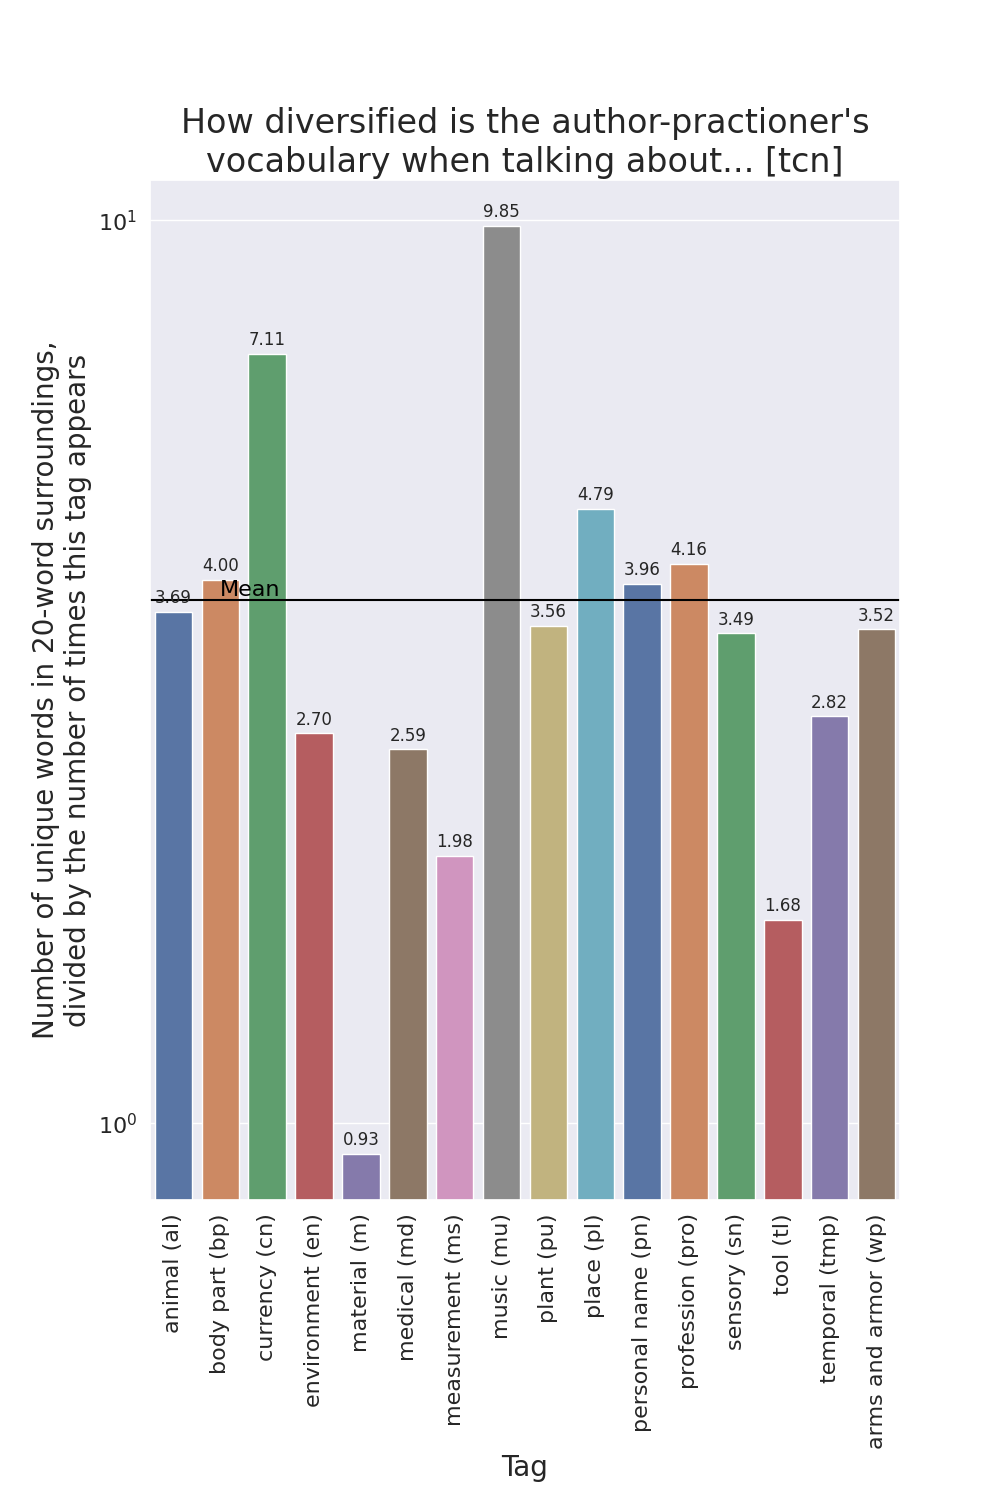
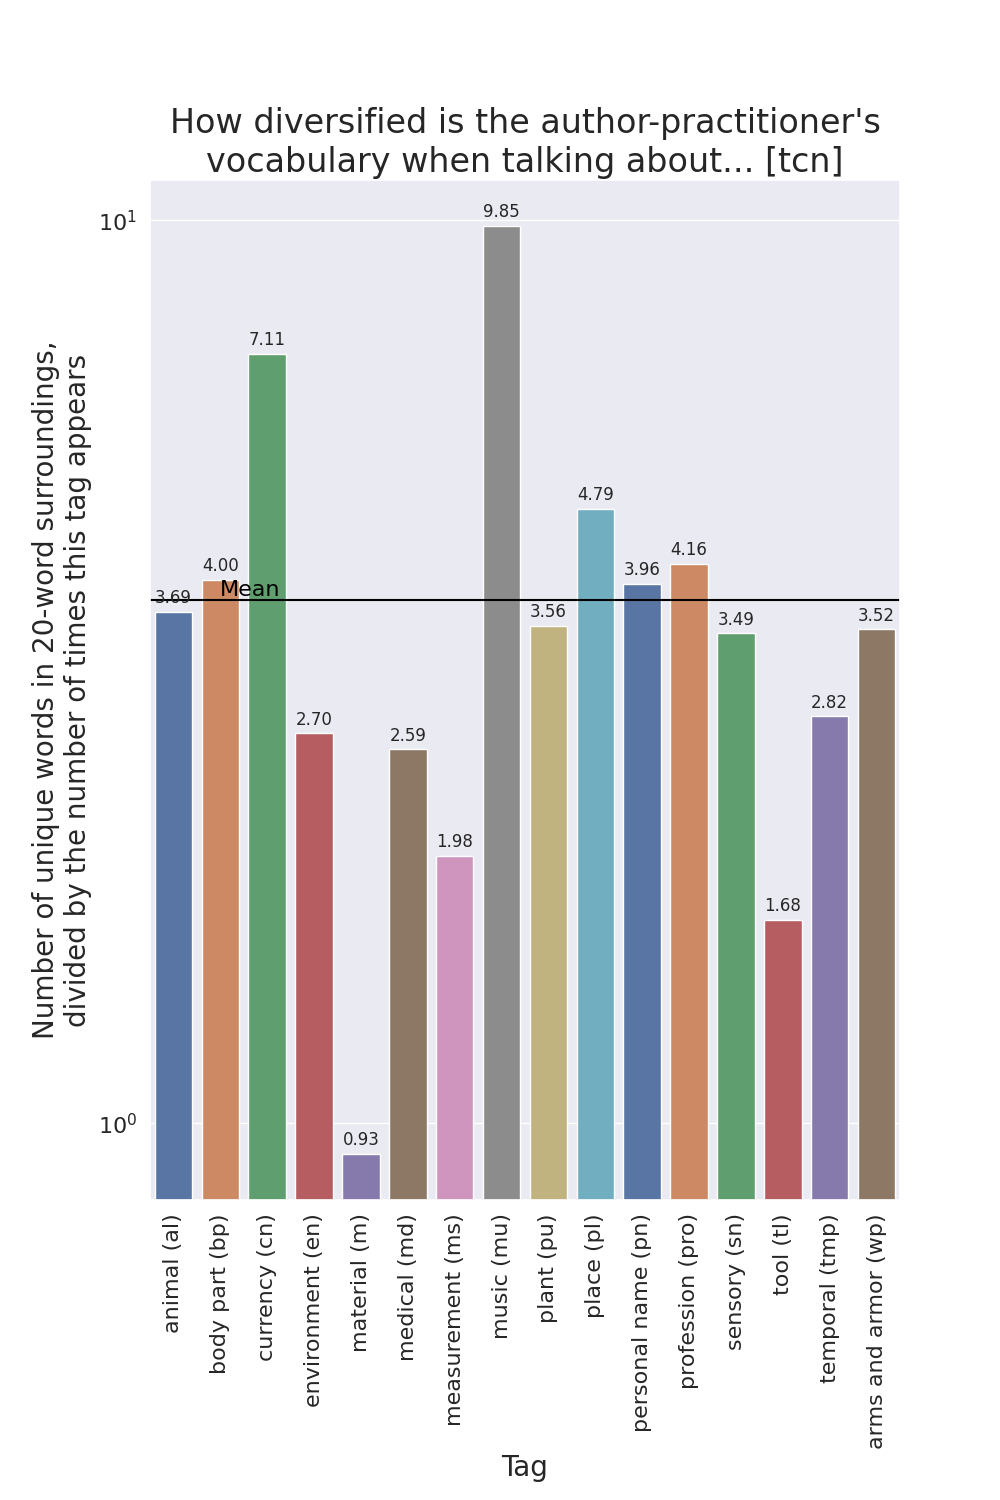
typos + better and more bubbleplots + categories barplot

Changed region(s): [[0.155, 0.0613, 0.868, 0.092]]

diff --git a/context_viz.py b/context_viz.py
@@ -180,7 +180,7 @@ def create_symmetrical_heatmap(data, manuscript_version):
                           cmap = sns.cm.rocket_r)
     heatmap.collections[0].colorbar.set_label("Percentage of similar words in 20-word surroundings",
                                               fontsize = 20)
-    heatmap.set_title("How similar is the author-practioner's vocabulary\nwhen talking about two different topics [" + manuscript_version + "]",
+    heatmap.set_title("How similar is the author-practitioner's vocabulary\nwhen talking about two different topics [" + manuscript_version + "]",
                       fontsize = 22)
     heatmap.set_ylabel("Tags", fontsize = 20)
     heatmap.set_xlabel("Tags", fontsize = 20)
@@ -214,7 +214,7 @@ def create_symmetrical_diff_heatmap(v1, v2, data1, data2):
                           center = 0, cmap = 'seismic', fmt = '.2f')
     heatmap.collections[0].colorbar.set_label("Percentage of similar words in 20-word surroundings",
                                               fontsize = 20)
-    heatmap.set_title("How similar is the author-practioner's vocabulary\nwhen talking about two different topics [" + v1 + " - " + v2 + "]",
+    heatmap.set_title("How similar is the author-practitioner's vocabulary\nwhen talking about two different topics [" + v1 + " - " + v2 + "]",
                       fontsize = 22)
     heatmap.set_ylabel("Tags", fontsize = 20)
     heatmap.set_xlabel("Tags", fontsize = 20)
@@ -272,7 +272,7 @@ def create_asymmetrical_heatmap(data, manuscript_version):
                           cmap = sns.cm.rocket_r)
     heatmap.collections[0].colorbar.set_label("Percentage of included words in 20-word surroundings",
                                               fontsize = 20)
-    heatmap.set_title("How similar is the author-practioner's vocabulary\nwhen talking about two different topics [" + manuscript_version + "]",
+    heatmap.set_title("How similar is the author-practitioner's vocabulary\nwhen talking about two different topics [" + manuscript_version + "]",
                       fontsize = 22)
     heatmap.set_ylabel("How much of this tag's context vocabulary...", fontsize = 20)
     heatmap.set_xlabel("...is included in this tag's context vocabulary?", fontsize = 20)
@@ -306,7 +306,7 @@ def create_asymmetrical_diff_heatmap(v1, v2, data1, data2):
                           center = 0, cmap = 'seismic', fmt = '.2f')
     heatmap.collections[0].colorbar.set_label("Percentage of similar words in 20-word surroundings",
                                               fontsize = 20)
-    heatmap.set_title("How similar is the author-practioner's vocabulary\nwhen talking about two different topics [" + v1 + " - " + v2 + "]",
+    heatmap.set_title("How similar is the author-practitioner's vocabulary\nwhen talking about two different topics [" + v1 + " - " + v2 + "]",
                       fontsize = 22)
     heatmap.set_ylabel("How much of this tag's context vocabulary...", fontsize = 20)
     heatmap.set_xlabel("...is included in this tag's context vocabulary?", fontsize = 20)
@@ -329,16 +329,16 @@ def create_barplot(data, manuscript_version, normalized):
     plt.gcf().subplots_adjust(bottom = 0.2)
     plt.gcf().subplots_adjust(left = 0.15)
     if normalized:
-        hist_data = [len(data[0][i])/len(data[1][i]) for i in range(len(tags))]
+        bar_data = [len(data[0][i])/len(data[1][i]) for i in range(len(tags))]
         ylabel_appendix = ",\ndivided by the number of times this tag appears"
         filename_appendix = "_normalized"
     else:
-        hist_data = [len(data[0][i]) for i in range(len(tags))]
+        bar_data = [len(data[0][i]) for i in range(len(tags))]
         ylabel_appendix = ""
         filename_appendix = ""
-    barplt = sns.barplot(x = tag_names, y = hist_data,
+    barplt = sns.barplot(x = tag_names, y = bar_data,
                          palette = "deep")
-    mean = np.mean(hist_data)
+    mean = np.mean(bar_data)
     barplt.axhline(mean, ls='-', color = "black")
     barplt.text(1, mean*1.01, "Mean", fontsize = 16, color = "black")
     for p in barplt.patches:
@@ -350,11 +350,11 @@ def create_barplot(data, manuscript_version, normalized):
     barplt.set_ylabel("Number of unique words in 20-word surroundings" + ylabel_appendix,
                       fontsize = 20)
     barplt.set_xlabel("Tag", fontsize = 20)
-    barplt.set_title("How diversified is the author-practioner's\nvocabulary when talking about... [" + manuscript_version + "]",
+    barplt.set_title("How diversified is the author-practitioner's\nvocabulary when talking about... [" + manuscript_version + "]",
                      fontsize = 24)
     barplt.set_xticklabels(barplt.get_xticklabels(), rotation = 90, fontsize = 16)
     barplt.set_yticklabels(tag_names, size = 16)
-    #hist.yaxis.set_major_locator(plt.FixedLocator(5))
+    #bar.yaxis.set_major_locator(plt.FixedLocator(5))
     barplt.set(yscale = "log")
     fig = barplt.get_figure()
     fig.savefig(viz_path + "barplot" + filename_appendix + ".png")
@@ -383,7 +383,7 @@ def create_grouped_barplot(data, normalized):
     context = data[0]
     items = data[1]
 
-    hist_data = []
+    bar_data = []
     for i in range(3):
         v = manuscript_versions[i]
         for j in range(len(tags)):
@@ -391,9 +391,9 @@ def create_grouped_barplot(data, normalized):
             height = len(context[i][j])
             if normalized:
                 height /= len(items[i][j])
-            hist_data.append([tag, height, v])
+            bar_data.append([tag, height, v])
 
-    data = pandas.DataFrame(data = hist_data,
+    data = pandas.DataFrame(data = bar_data,
                             columns = ["tag", "height", "manuscript version"])
 
     barplt = sns.barplot(x = "tag", y = "height", data = data, order = tags,
@@ -401,13 +401,13 @@ def create_grouped_barplot(data, normalized):
     barplt.set_ylabel("Number of unique words in 20-word surroundings" + ylabel_appendix,
                       fontsize = 20)
     barplt.set_xlabel("Tag", fontsize = 20)
-    barplt.set_title("How diversified is the author-practioner's\nvocabulary when talking about...",
+    barplt.set_title("How diversified is the author-practitioner's\nvocabulary when talking about...",
                      fontsize = 24)
     barplt.set_xticklabels(tag_names, rotation = 90, fontsize = 16)
     barplt.set_yticklabels(barplt.get_yticklabels(), size = 16)
     plt.setp(barplt.get_legend().get_texts(), fontsize = "16")
     plt.setp(barplt.get_legend().get_title(), fontsize = "16")
-    #hist.yaxis.set_major_locator(plt.FixedLocator(5))
+    #bar.yaxis.set_major_locator(plt.FixedLocator(5))
     barplt.set(yscale = "log")
     fig = barplt.get_figure()
     fig.savefig(viz_path + "grouped_barplot" + filename_appendix + ".png")

diff --git a/manuscript_visualizations.py b/manuscript_visualizations.py
@@ -54,7 +54,7 @@ def tags_scatterplot(search_tags, filename, title):
     fig.savefig(f"{viz_path}{filename}.png")
 
 
-def tags_bubbleplot(search_tags, filename, title):
+def tags_bubbleplot(search_tags, filename, title, normalized):
     entries = []
     tags = []
     counts = []
@@ -76,7 +76,13 @@ def tags_bubbleplot(search_tags, filename, title):
             for tag in search_tags:
                 entries.append(entry)
                 tags.append(tag)
-                counts.append(entry_text.count(f'<{tag}>'))
+                count = entry_text.count(f'<{tag}>')
+                if normalized:
+                    pure_text = etree.tostring(div, method = "text", encoding="UTF-8").decode('utf-8')
+                    entry_length = len(pure_text.split())
+                    if entry_length != 0:
+                        count /= entry_length
+                counts.append(count)
 
     df = pandas.DataFrame({"entries": entries, "tags": tags, "counts": counts})
 
@@ -91,11 +97,66 @@ def tags_bubbleplot(search_tags, filename, title):
     bubbleplot.set_title(title, fontsize = 20)
 
     bubbleplot.set_xticklabels([], rotation = 90, fontsize = 6)
-    bubbleplot.legend(fancybox = True, title = "Count")
+    bubbleplot.legend(fancybox = True)
     #scatter.set_yticklabels(scatter.get_yticklabels(), size = 16)
 
     fig = bubbleplot.get_figure()
     fig.savefig(f"{viz_path}{filename}.png")
+
+
+def categories_barplot():
+    categories = ["casting", "painting", "metal process", "varnish",
+                  "arms and armor", "medicine", "household and daily life",
+                  "cultivation", "stones", "wood and its coloring", "tool",
+                  "tricks and sleight of hand", "decorative",
+                  "animal husbandry", "glass process", "corrosives", "dyeing",
+                  "preserving", "wax process", "practical optics", "lists",
+                  "merchants", "printing", "La boutique", "alchemy",
+                  "manuscript structure"]
+    counts = np.zeros(len(categories))
+
+    for i in range(0, 340):
+        number = format(i//2 + 1, '03')
+        side = "r" if (i % 2 == 0) else "v"
+
+        folio = f'{manuscript_version}_p{number}{side}_preTEI'
+        #print(folio)
+        input_filename = f'{m_path}/ms-xml/{manuscript_version}/{folio}.xml'
+
+        tree = etree.parse(input_filename)
+
+        for div in tree.findall(".//div"):
+            category_list = div.get("categories")
+            if category_list != None:
+                category_list = category_list.split(";")
+                for i in range(len(categories)):
+                    if categories[i] in category_list:
+                        counts[i] += 1
+
+    df = pandas.DataFrame({"counts": counts, "categories": categories})
+    cat_order = df.sort_values("counts", ascending = False).categories
+
+    plt.subplots(figsize = (10, 10))
+    plt.gcf().subplots_adjust(bottom = 0.35)
+    barplt = sns.barplot(x = "categories", y = "counts", data = df,
+                         order = cat_order)
+
+    total_sum = sum(counts)
+    print(total_sum)
+    for p in barplt.patches:
+        nb = format(p.get_height()/total_sum*100, '.2f')
+        barplt.annotate(nb + "%", (p.get_x() + p.get_width(), p.get_height() + 5),
+                        ha = 'center', va = 'center', xytext = (0, 10),
+                        textcoords = 'offset points', rotation = 45)
+
+    barplt.set_ylabel("Number of entries", fontsize = 18)
+    barplt.set_xlabel("Categories", fontsize = 18)
+    barplt.set_title("How many entries there are for each category", fontsize = 20)
+
+    barplt.set_xticklabels(barplt.get_xticklabels(), rotation = 90, fontsize = 16)
+    #scatter.set_yticklabels(scatter.get_yticklabels(), size = 16)
+    fig = barplt.get_figure()
+    fig.savefig(viz_path + "categories_barplot.png")
 
 
 
@@ -109,4 +170,12 @@ language_tags = ["fr", "el", "it", "la", "oc", "po"]
 title = "Other languages in the English translation of the manuscript"
 tags_scatterplot(language_tags, "languages_scatterplot", title)
 
-tags_bubbleplot(language_tags, "languages_bubbles", "Other languages in the English translation of the manuscript")
+tags_bubbleplot(language_tags, "languages_bubbles", "Other languages in the English translation of the manuscript", False)
+tags_bubbleplot(language_tags, "languages_bubbles_normalized", "Other languages in the English translation of the manuscript (normalized by entry length)", True)
+
+tags_bubbleplot(["del", "add"], "modifications_bubbles", "Additions and deletions by the author-practitioner", False)
+tags_bubbleplot(["del", "add"], "modifications_bubbles_normalized", "Additions and deletions by the author-practitioner (normalized by entry length)", True)
+
+categories_barplot()
+
+print("All done!")
